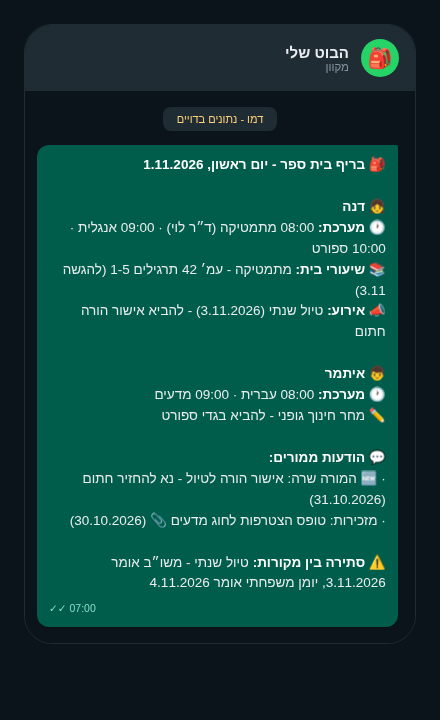
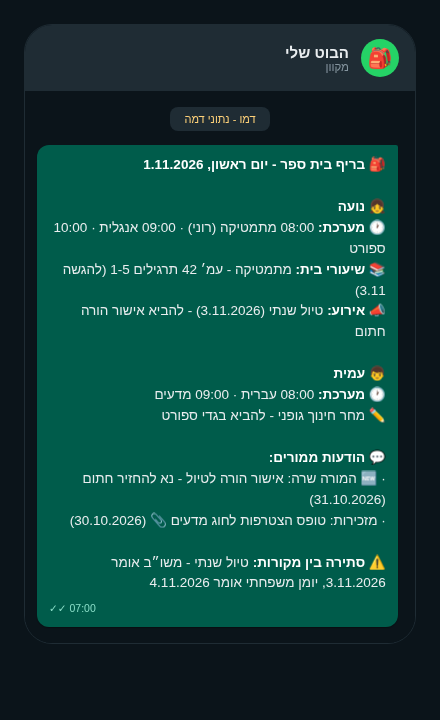
Evergreen README: drop dev status/coverage tracking, 'עוד בוט' section; collapse FAQ; standard footer + blog link; demo labeled נתוני דמה with realistic names

diff --git a/tests/test_mashov_adapter.py b/tests/test_mashov_adapter.py
@@ -27,14 +27,14 @@ def _load(name):
 class MashovAdapterTest(unittest.TestCase):
     def test_maps_representative_fixture(self):
         kid = map_kid(
-            "דנה", _load("mashov_timetable.json"), _load("mashov_homework.json"),
+            "נועה", _load("mashov_timetable.json"), _load("mashov_homework.json"),
             SUNDAY, day1_weekday="ראשון",
         )
-        self.assertEqual(kid.name, "דנה")
+        self.assertEqual(kid.name, "נועה")
         # day=1 (ראשון לפי הכיול) בלבד; הרשומה של day=2 מסוננת
         self.assertEqual([l.subject for l in kid.lessons], ["מתמטיקה", "אנגלית"])
         self.assertEqual(kid.lessons[0].time, "שיעור 1")
-        self.assertEqual(kid.lessons[0].teacher, "ד״ר לוי")
+        self.assertEqual(kid.lessons[0].teacher, "רוני")
         self.assertEqual(kid.lessons[0].room, "חדר 12")
         # שיעורי בית: subjectName/homework/remark; lessonDate = תאריך מתן, לא הגשה
         self.assertEqual(kid.homework[0].subject, "מתמטיקה")
@@ -44,30 +44,30 @@ class MashovAdapterTest(unittest.TestCase):
 
     def test_day_enum_uncalibrated_fails_closed(self):
         with self.assertRaises(CollectorError) as ctx:
-            map_kid("דנה", _load("mashov_timetable.json"), [], SUNDAY)
+            map_kid("נועה", _load("mashov_timetable.json"), [], SUNDAY)
         self.assertIn("MASHOV_DAY1_IS", str(ctx.exception))
 
     def test_day_enum_invalid_value_fails_closed(self):
         with self.assertRaises(CollectorError) as ctx:
-            map_kid("דנה", _load("mashov_timetable.json"), [], SUNDAY, day1_weekday="יום א")
+            map_kid("נועה", _load("mashov_timetable.json"), [], SUNDAY, day1_weekday="יום א")
         self.assertIn("אינו יום תקין", str(ctx.exception))
 
     def test_old_flat_shape_fails_closed(self):
         # הצורה השטוחה שנשערה לפני הכיול מול המקור — חייבת להיכשל סגור
         with self.assertRaises(CollectorError) as ctx:
-            map_kid("דנה", _load("mashov_timetable_wrongshape.json"), [], SUNDAY, day1_weekday="ראשון")
+            map_kid("נועה", _load("mashov_timetable_wrongshape.json"), [], SUNDAY, day1_weekday="ראשון")
         self.assertIn("timeTable/groupDetails", str(ctx.exception))
 
     def test_non_list_envelope_fails_closed(self):
         with self.assertRaises(CollectorError) as ctx:
-            map_kid("דנה", {"timetable": []}, [], SUNDAY, day1_weekday="ראשון")
+            map_kid("נועה", {"timetable": []}, [], SUNDAY, day1_weekday="ראשון")
         self.assertIn("מבנה לא מוכר", str(ctx.exception))
 
     def test_lesson_without_subject_fails_closed(self):
         bad = [{"timeTable": {"groupId": 1, "day": 1, "lesson": 1, "roomNum": "", "weeks": 0},
                 "groupDetails": {"groupId": 1, "groupName": "x", "groupTeachers": []}}]
         with self.assertRaises(CollectorError) as ctx:
-            map_kid("דנה", bad, [], SUNDAY, day1_weekday="ראשון")
+            map_kid("נועה", bad, [], SUNDAY, day1_weekday="ראשון")
         self.assertIn("subjectName", str(ctx.exception))
 
     def test_all_rows_filtered_fails_closed(self):
@@ -76,20 +76,20 @@ class MashovAdapterTest(unittest.TestCase):
              "groupDetails": {"groupId": 9, "subjectName": "עברית", "groupTeachers": []}}
         ]
         with self.assertRaises(CollectorError) as ctx:
-            map_kid("דנה", only_other_days, [], SUNDAY, day1_weekday="ראשון")
+            map_kid("נועה", only_other_days, [], SUNDAY, day1_weekday="ראשון")
         self.assertIn("סוננו החוצה", str(ctx.exception))
 
     def test_empty_raw_is_legitimate(self):
         # רשימות ריקות = באמת אין נתונים (סוף שבוע, אין שיעורים) — מותר,
         # גם בלי כיול מספור ימים (אין מה לסנן)
-        kid = map_kid("דנה", [], [], SUNDAY)
+        kid = map_kid("נועה", [], [], SUNDAY)
         self.assertEqual(kid.lessons, [])
         self.assertEqual(kid.homework, [])
 
     def test_homework_without_homework_field_fails_closed(self):
         bad = [{"lessonId": 1, "lessonDate": "2030-01-01T00:00:00", "subjectName": "מתמטיקה"}]
         with self.assertRaises(CollectorError) as ctx:
-            map_kid("דנה", [], bad, SUNDAY)
+            map_kid("נועה", [], bad, SUNDAY)
         self.assertIn("homework", str(ctx.exception))
 
     def test_dedup_double_lesson(self):
@@ -99,7 +99,7 @@ class MashovAdapterTest(unittest.TestCase):
             {"timeTable": {"groupId": 1, "day": 1, "lesson": 1, "roomNum": "א", "weeks": 0},
              "groupDetails": {"groupId": 1, "subjectName": "מתמטיקה", "groupTeachers": []}},
         ]
-        kid = map_kid("דנה", dup, [], SUNDAY, day1_weekday="ראשון")
+        kid = map_kid("נועה", dup, [], SUNDAY, day1_weekday="ראשון")
         self.assertEqual(len(kid.lessons), 1)
 
 class MashovMessagesEnvelopeTest(unittest.TestCase):

diff --git a/src/daily_brief/collectors/demo.py b/src/daily_brief/collectors/demo.py
@@ -25,9 +25,9 @@ def collect() -> DayBrief:
         weekday_he="ראשון",
         kids=[
             KidBrief(
-                name="דנה",
+                name="נועה",
                 lessons=[
-                    Lesson(time="08:00", subject="מתמטיקה", teacher="ד״ר לוי"),
+                    Lesson(time="08:00", subject="מתמטיקה", teacher="רוני"),
                     Lesson(time="09:00", subject="אנגלית"),
                     Lesson(time="10:00", subject="ספורט"),
                 ],
@@ -35,7 +35,7 @@ def collect() -> DayBrief:
                 events=[SchoolEvent(title="טיול שנתי", note="להביא אישור הורה חתום", date="3.11.2026")],
             ),
             KidBrief(
-                name="איתמר",
+                name="עמית",
                 lessons=[
                     Lesson(time="08:00", subject="עברית"),
                     Lesson(time="09:00", subject="מדעים", room="מעבדה 2"),

diff --git a/tests/test_formatter.py b/tests/test_formatter.py
@@ -19,12 +19,12 @@ class FormatterTest(unittest.TestCase):
         self.assertTrue(self.text.startswith("🎒 *בריף בית ספר"))
 
     def test_all_kids_present(self):
-        self.assertIn("*דנה*", self.text)
-        self.assertIn("*איתמר*", self.text)
+        self.assertIn("*נועה*", self.text)
+        self.assertIn("*עמית*", self.text)
 
     def test_lessons_and_homework_lines(self):
         self.assertIn("🕐 *מערכת:*", self.text)
-        self.assertIn("08:00 מתמטיקה (ד״ר לוי)", self.text)
+        self.assertIn("08:00 מתמטיקה (רוני)", self.text)
         self.assertIn("📚 *שיעורי בית:* מתמטיקה - עמ׳ 42 תרגילים 1-5 (להגשה 3.11)", self.text)
 
     def test_events_and_notes(self):

diff --git a/src/daily_brief/collectors/mashov.py b/src/daily_brief/collectors/mashov.py
@@ -108,7 +108,7 @@ class MashovCollector:
 
 
 def _parse_kids(raw: str) -> dict[str, str]:
-    """'דנה=123456,איתמר=123457' -> {'דנה': '123456', 'איתמר': '123457'}"""
+    """'נועה=123456,עמית=123457' -> {'נועה': '123456', 'עמית': '123457'}"""
     pairs = {}
     for item in raw.split(","):
         item = item.strip()

diff --git a/README.md b/README.md
@@ -7,13 +7,10 @@
 <p align="center"><code>mashov-parent-brief</code></p>
 
 <p align="center">
-  מערכת שעות, שיעורי בית והודעות מורים של כל הילדים, מוצלבים עם היומן המשפחתי<br/>
-  ומרוכזים להודעת בוקר אחת מסודרת בסגנון וואטסאפ, שאפשר לחבר לבוט האישי שלכם.<br/>
+  מערכת שעות, שיעורי בית והודעות מורים של כל הילדים, מרוכזים<br/>
+  להודעת בוקר אחת מסודרת בסגנון וואטסאפ, שאפשר לחבר לבוט האישי שלכם.<br/>
+  אופציונלי: הצלבה עם היומן המשפחתי לתפיסת סתירות תאריכים.<br/>
   קוד פתוח (MIT) שרץ <strong>אצלכם</strong>, בלי שרת מרכזי ובלי רישום.
-</p>
-
-<p align="center">
-  <strong>סטטוס:</strong> קוד ניסיוני שרץ אצלכם (self-hosted). החיבור החי למשו״ב דורש כיול ואימות חד-פעמיים מול החשבון שלכם.
 </p>
 
 <p align="center">
@@ -27,29 +24,29 @@
 </p>
 
 <p align="center">
-  <img src="assets/demo-brief.png" alt="דוגמת בריף בוקר בוואטסאפ: מערכת שעות, שיעורי בית והודעות ממורים - נתוני דמו בדויים" width="360" />
+  <img src="assets/demo-brief.png" alt="דוגמת בריף בוקר בוואטסאפ: מערכת שעות, שיעורי בית והודעות ממורים - נתוני דמה" width="360" />
 </p>
 
 <div dir="rtl">
 
 **מחפשים את תכל׳סקול?** השירות הופסק ([הודעה באתרם](https://tachless.school)).
-הפרויקט הזה עצמאי ואין לו קשר אליהם - חלופה בקוד פתוח, self-hosted וניסיונית,
+הפרויקט הזה עצמאי ואין לו קשר אליהם - חלופה בקוד פתוח, self-hosted,
 שהנתונים בה נשארים אצלכם.
 
 </div>
 
 ## איך נראה הבריף
 
-דוגמה מלאה עם **נתונים בדויים** (ככה נראית הרצת הדמו):
+דוגמה מלאה עם **נתוני דמה** (ככה נראית הרצת הדמו):
 
 > 🎒 **בריף בית ספר - יום ראשון, 1.11.2026**
 >
-> 👧 **דנה**<br>
-> 🕐 **מערכת:** 08:00 מתמטיקה (ד״ר לוי) · 09:00 אנגלית · 10:00 ספורט<br>
+> 👧 **נועה**<br>
+> 🕐 **מערכת:** 08:00 מתמטיקה (רוני) · 09:00 אנגלית · 10:00 ספורט<br>
 > 📚 **שיעורי בית:** מתמטיקה - עמ׳ 42 תרגילים 1-5 (להגשה 3.11)<br>
 > 📣 **אירוע:** טיול שנתי (3.11.2026) - להביא אישור הורה חתום
 >
-> 👦 **איתמר**<br>
+> 👦 **עמית**<br>
 > 🕐 **מערכת:** 08:00 עברית · 09:00 מדעים<br>
 > ✏ מחר חינוך גופני - להביא בגדי ספורט
 >
@@ -67,40 +64,7 @@
 
 </div>
 
-## סטטוס
-
-| מסלול | סטטוס |
-|-------|--------|
-| מצב דמו (`--demo`) | ✅ עובד מקצה לקצה ומכוסה בבדיקות אוטומטיות |
-| מתאם משו״ב חי | ⚠ **ניסיוני.** נקודות הקצה מאומתות מול הקוד הפתוח של pymashov. צורות התשובה של מערכת ושיעורי-בית אומתו מול משיכה חיה קריאה-בלבד (25.10.2026; כל הערכים בפיקסצ׳רים מומצאים). צורת השיחות מגובה בספרייה ציבורית עצמאית אך טרם אומתה מול חשבון חי, מספור הימים דורש כיול (MASHOV_DAY1_IS), ועדיין לא בוצעה קבלה מקצה לקצה מול חשבון אמיתי. המתאם נכשל סגור עם הודעה ברורה על כל מבנה לא מוכר (AGENTS.md, צעד 5) |
-
 <div dir="rtl">
-
-## כיסוי: מה ממומש, מה לא, ולמה
-
-| תכונה | סטטוס | הערה |
-|-------|--------|------|
-| מערכת שעות + שיעורי בית (משו״ב) | ⚠ ניסיוני | צורת התשובה אומתה מול משיכה חיה (ערכים מומצאים); מספור ימים דורש כיול, מועד הגשה אינו מתועד - מוצג תאריך מתן בלבד |
-| הודעות ממורים (דואר משו״ב) | ⚠ ניסיוני, צורה מגובה-מקור-ציבורי | get_conversations עם skip/take; צורת המעטפת מגובה בספרייה הציבורית העצמאית [yardnsm/node-mashov](https://github.com/yardnsm/node-mashov) (קוד + פיקסצ׳ר בדיקה), טרם אומתה מול חשבון חי ונכשל סגור על סטייה; קבצים מצורפים **מסומנים 📎 בלבד, לא מורדים** |
-| ציונים ואירועי משמעת | 🚫 לא נאספים בכוונה | מידע רגיש לעיני הורה בלבד, לא לבריף משפחתי; הוספה = החלטת פרטיות מפורשת של כל משתמש |
-| יומן (הצלבת מקורות) | ✅ ממומש, מוגבל ביודעין | קובץ ICS מקומי או URL ציבורי, ספרייה סטנדרטית בלבד; סתירות תאריכים מדווחות עם שני המקורות והתאריכים. חזרות נתמכות ב-DAILY/WEEKLY פשוט בלבד (+EXDATE); שעות UTC מומרות ל-Asia/Jerusalem; כל תכונה לא נתמכת (MONTHLY, RDATE וכו׳) = שורת ⚠ "יומן חלקי" ואזהרה מפורשת, לא השמטה שקטה |
-| שער שלמות | ✅ ממומש | מקור שנכשל/חלקי מופיע כשורת ⚠ בבריף; מבנה לא מוכר עוצר עם הודעה ברורה |
-| סמן ריצה אחרונה (אידמפוטנטות) | ✅ ממומש | out/state.json מקומי; הודעות חדשות מסומנות 🆕 פעם אחת, בלי כפילות בריצה חוזרת |
-| תאריכים | ✅ ממומש | יום השבוע מחושב מלוח השנה האמיתי (מהקוד, לא מהבוט) |
-| מתאמי מקור נוספים (Webtop וכו׳) | 🔜 עתידי | חוזה אחד: `collect() -> DayBrief` |
-
-</div>
-
-<div dir="rtl">
-
-## למה קוד + הוראות, ולא "עוד בוט"
-
-- **דטרמיניסטי ומאומת.** איסוף, אימות, דה-דופליקציה ועיצוב קורים בקוד - לא
-  מושארים לשיקול דעת של בוט בכל בוקר מחדש.
-- **הבוט שלך נשאר הבוט שלך.** ההוראות (SKILL.md / AGENTS.md / מתכון טקסט)
-  אומרות לבוט *מתי* ו*איך* להריץ; הקוד מחליט *מה* נשלח.
-- **חינם לגמרי.** Python, ספריית pymashov הפתוחה, ותזמון מקומי (cron). בלי
-  חשבונות חדשים ובלי מנויים.
 
 ## התחלה מהירה (דמו, בלי התחברות)
 
@@ -152,9 +116,7 @@ Webtop (עתידי)       (models.py)              הבוט שלך שולח
 | אונבורדינג לסוכן קוד | [AGENTS.md](AGENTS.md) | Cursor, Claude Code, Codex וסוכני קוד אחרים |
 | מתכון טקסט | [recipes/daily-brief.he.md](recipes/daily-brief.he.md) | בוטי טקסט עם מחשב משלהם (Tab, Pally, Muse ודומים) |
 
-אין קובץ אחד שכל בוט קורא. **תאימות לבוט ספציפי מוכרזת רק אחרי מבחן מול הבוט
-עצמו.** מה שכן נבדק אוטומטית: התאמה של SKILL.md לתקן Agent Skills שפורסם
-(`python -m unittest discover tests`).
+אין קובץ אחד שכל בוט קורא, אז בחרו את המסלול שמתאים לבוט שלכם. ההוראות אומרות לבוט מתי ואיך להריץ, והקוד מחליט מה נשלח - דטרמיניסטי, בלי שיקול דעת חדש של הבוט בכל בוקר.
 
 ## פרטיות ושימוש אחראי
 
@@ -172,11 +134,14 @@ Webtop (עתידי)       (models.py)              הבוט שלך שולח
 
 ## שאלות ותשובות
 
+<details>
+<summary>פתיחת השאלות והתשובות</summary>
+
 **מה זה משו״ב?**
-משו״ב (מיידיות, שקיפות ובקרה) היא מערכת ניהול בתי הספר שבה עובדים כ-1,700 בתי ספר בישראל, עם כמיליון הורים ותלמידים ביום ([כלכליסט, 2021](https://www.calcalistech.com/ctech/articles/0,7340,L-3924112,00.html)). שם מתפרסמים מערכת השעות, שיעורי הבית, הציונים, הנוכחות והודעות המורים. הריפו הזה אוסף ממנה את המערכת, שיעורי הבית והודעות המורים, ובכוונה לא ציונים ואירועי משמעת (הסבר למטה).
+משו״ב (מיידיות, שקיפות ובקרה) היא מערכת ניהול בתי הספר שבה עובדים כ-1,700 בתי ספר בישראל, עם כמיליון הורים ותלמידים ביום ([כלכליסט, 2021](https://www.calcalistech.com/ctech/articles/0,7340,L-3924112,00.html)). שם מתפרסמים מערכת השעות, שיעורי הבית, הציונים, הנוכחות והודעות המורים. הריפו הזה אוסף ממנה את המערכת, שיעורי הבית והודעות המורים, ובכוונה לא ציונים ואירועי משמעת (שאלה נפרדת על זה למטה).
 
 **איך מקבלים מערכת שעות, שיעורי בית והודעות ממורים במשו״ב אל וואטסאפ?**
-מתקינים את הריפו אצלכם (דמו בלי התחברות: `pip install -e . && daily-brief --demo`), מגדירים חיבור לחשבון ההורה שלכם במשו״ב, ומתזמנים ריצת בוקר. הפלט הוא הודעת טקסט אחת בסגנון וואטסאפ שאפשר לחבר לבוט האישי שלכם - ההוראות ב-[AGENTS.md](AGENTS.md), ותאימות לבוט ספציפי טרם אומתה.
+מתקינים את הריפו אצלכם (דמו בלי התחברות: `pip install -e . && daily-brief --demo`), מגדירים חיבור לחשבון ההורה שלכם במשו״ב, ומתזמנים ריצת בוקר. הפלט הוא הודעת טקסט אחת בסגנון וואטסאפ שאפשר לחבר לבוט האישי שלכם - ההוראות ב-[AGENTS.md](AGENTS.md).
 
 **למי זה מיועד?**
 להורים בישראל שבית הספר של ילדיהם עובד עם משו״ב, ושרוצים הודעת בוקר אחת מסודרת במקום לצלול כל יום לכמה מסכים.
@@ -185,10 +150,7 @@ Webtop (עתידי)       (models.py)              הבוט שלך שולח
 אצלך, במופע המקומי שלך. כל משתמש משכפל את הריפו ומריץ מופע משלו על המחשב שלו, עם החשבון שלו. לפרויקט אין שרת מרכזי ואין רישום, והקוד עצמו לא שולח נתונים לשום צד שלישי. קובץ ה-.env עם הסיסמה נשאר מקומי ומכוסה ב-.gitignore. שים לב: כדי לקבל את הבריף אליך תחבר בוט ענן או ספק שליחה (וואטסאפ, מייל וכו׳) - אותו מידע שתבחר לשלוח עובר דרכם, לפי ההרשאות וההגדרות שתגדיר.
 
 **אילו בוטים נתמכים?**
-כל בוט שיכול להריץ פקודה מתוזמנת ולקרוא קובץ טקסט: דרך קובץ SKILL.md (תקן Agent Skills הפתוח) או דרך מתכון טקסט חופשי לבוטים מבוססי-שיחה. תאימות לבוט ספציפי טרם אומתה בבדיקה אמיתית - זה הצעד הבא במפת הדרכים.
-
-**זה כבר עובד מול משו״ב אמיתי?**
-מצב הדמו עובד מקצה לקצה ומכוסה בבדיקות. המתאם החי ניסיוני: צורות המערכת ושיעורי-הבית אומתו מול משיכה חיה (ערכים מומצאים), צורת ההודעות טרם אומתה, ומספור הימים דורש כיול חד-פעמי מול החשבון שלך. פרטים מדויקים בטבלת הסטטוס למעלה.
+כל בוט שיכול להריץ פקודה מתוזמנת ולקרוא קובץ טקסט: דרך קובץ SKILL.md (תקן Agent Skills הפתוח) או דרך מתכון טקסט חופשי לבוטים מבוססי-שיחה.
 
 **מה עם קבצים מצורפים בהודעות ממורים?**
 מסומנים 📎 בלבד - הבריף מודיע שקיים קובץ מצורף, אבל לא מוריד אותו.
@@ -201,6 +163,8 @@ Webtop (עתידי)       (models.py)              הבוט שלך שולח
 
 **אילו בתי ספר נתמכים?**
 כל בית ספר שעובד עם משו״ב. בתי ספר על מערכות אחרות (Webtop וכו׳) ידרשו מתאם נוסף; החוזה פתוח (`collect() -> DayBrief`).
+
+</details>
 
 ## פרויקטים דומים ומקורות
 
@@ -222,10 +186,11 @@ MIT (הריפו הזה). pymashov היא Apache-2.0 ומשמשת כתלות חי
 
 ## Author
 
-**[Ofer Shapira](https://github.com/ofershap)** · [gitshow.dev/ofershap](https://gitshow.dev/ofershap)
+[![Made by ofershap](https://gitshow.dev/api/card/ofershap)](https://gitshow.dev/ofershap)
 
 [![LinkedIn](https://img.shields.io/badge/LinkedIn-Connect-0A66C2?style=flat&logo=linkedin&logoColor=white)](https://linkedin.com/in/ofershap)
 [![GitHub](https://img.shields.io/badge/GitHub-Follow-181717?style=flat&logo=github&logoColor=white)](https://github.com/ofershap)
+[![Blog](https://img.shields.io/badge/Blog-ofershap.github.io-FF5722?style=flat&logo=rss&logoColor=white)](https://ofershap.github.io/)
 
 ---
 

diff --git a/AGENTS.md b/AGENTS.md
@@ -34,7 +34,7 @@ cp .env.example .env
 daily-brief --demo
 ```
 
-צפוי: בריף עברי בדוי עם שני ילדים ("דנה" ו"איתמר"). אם זה עובד, התשתית תקינה.
+צפוי: בריף עברי עם נתוני דמה ושני ילדים ("נועה" ו"עמית"). אם זה עובד, התשתית תקינה.
 
 ## צעד 5 - מבחן חיה אחד
 
